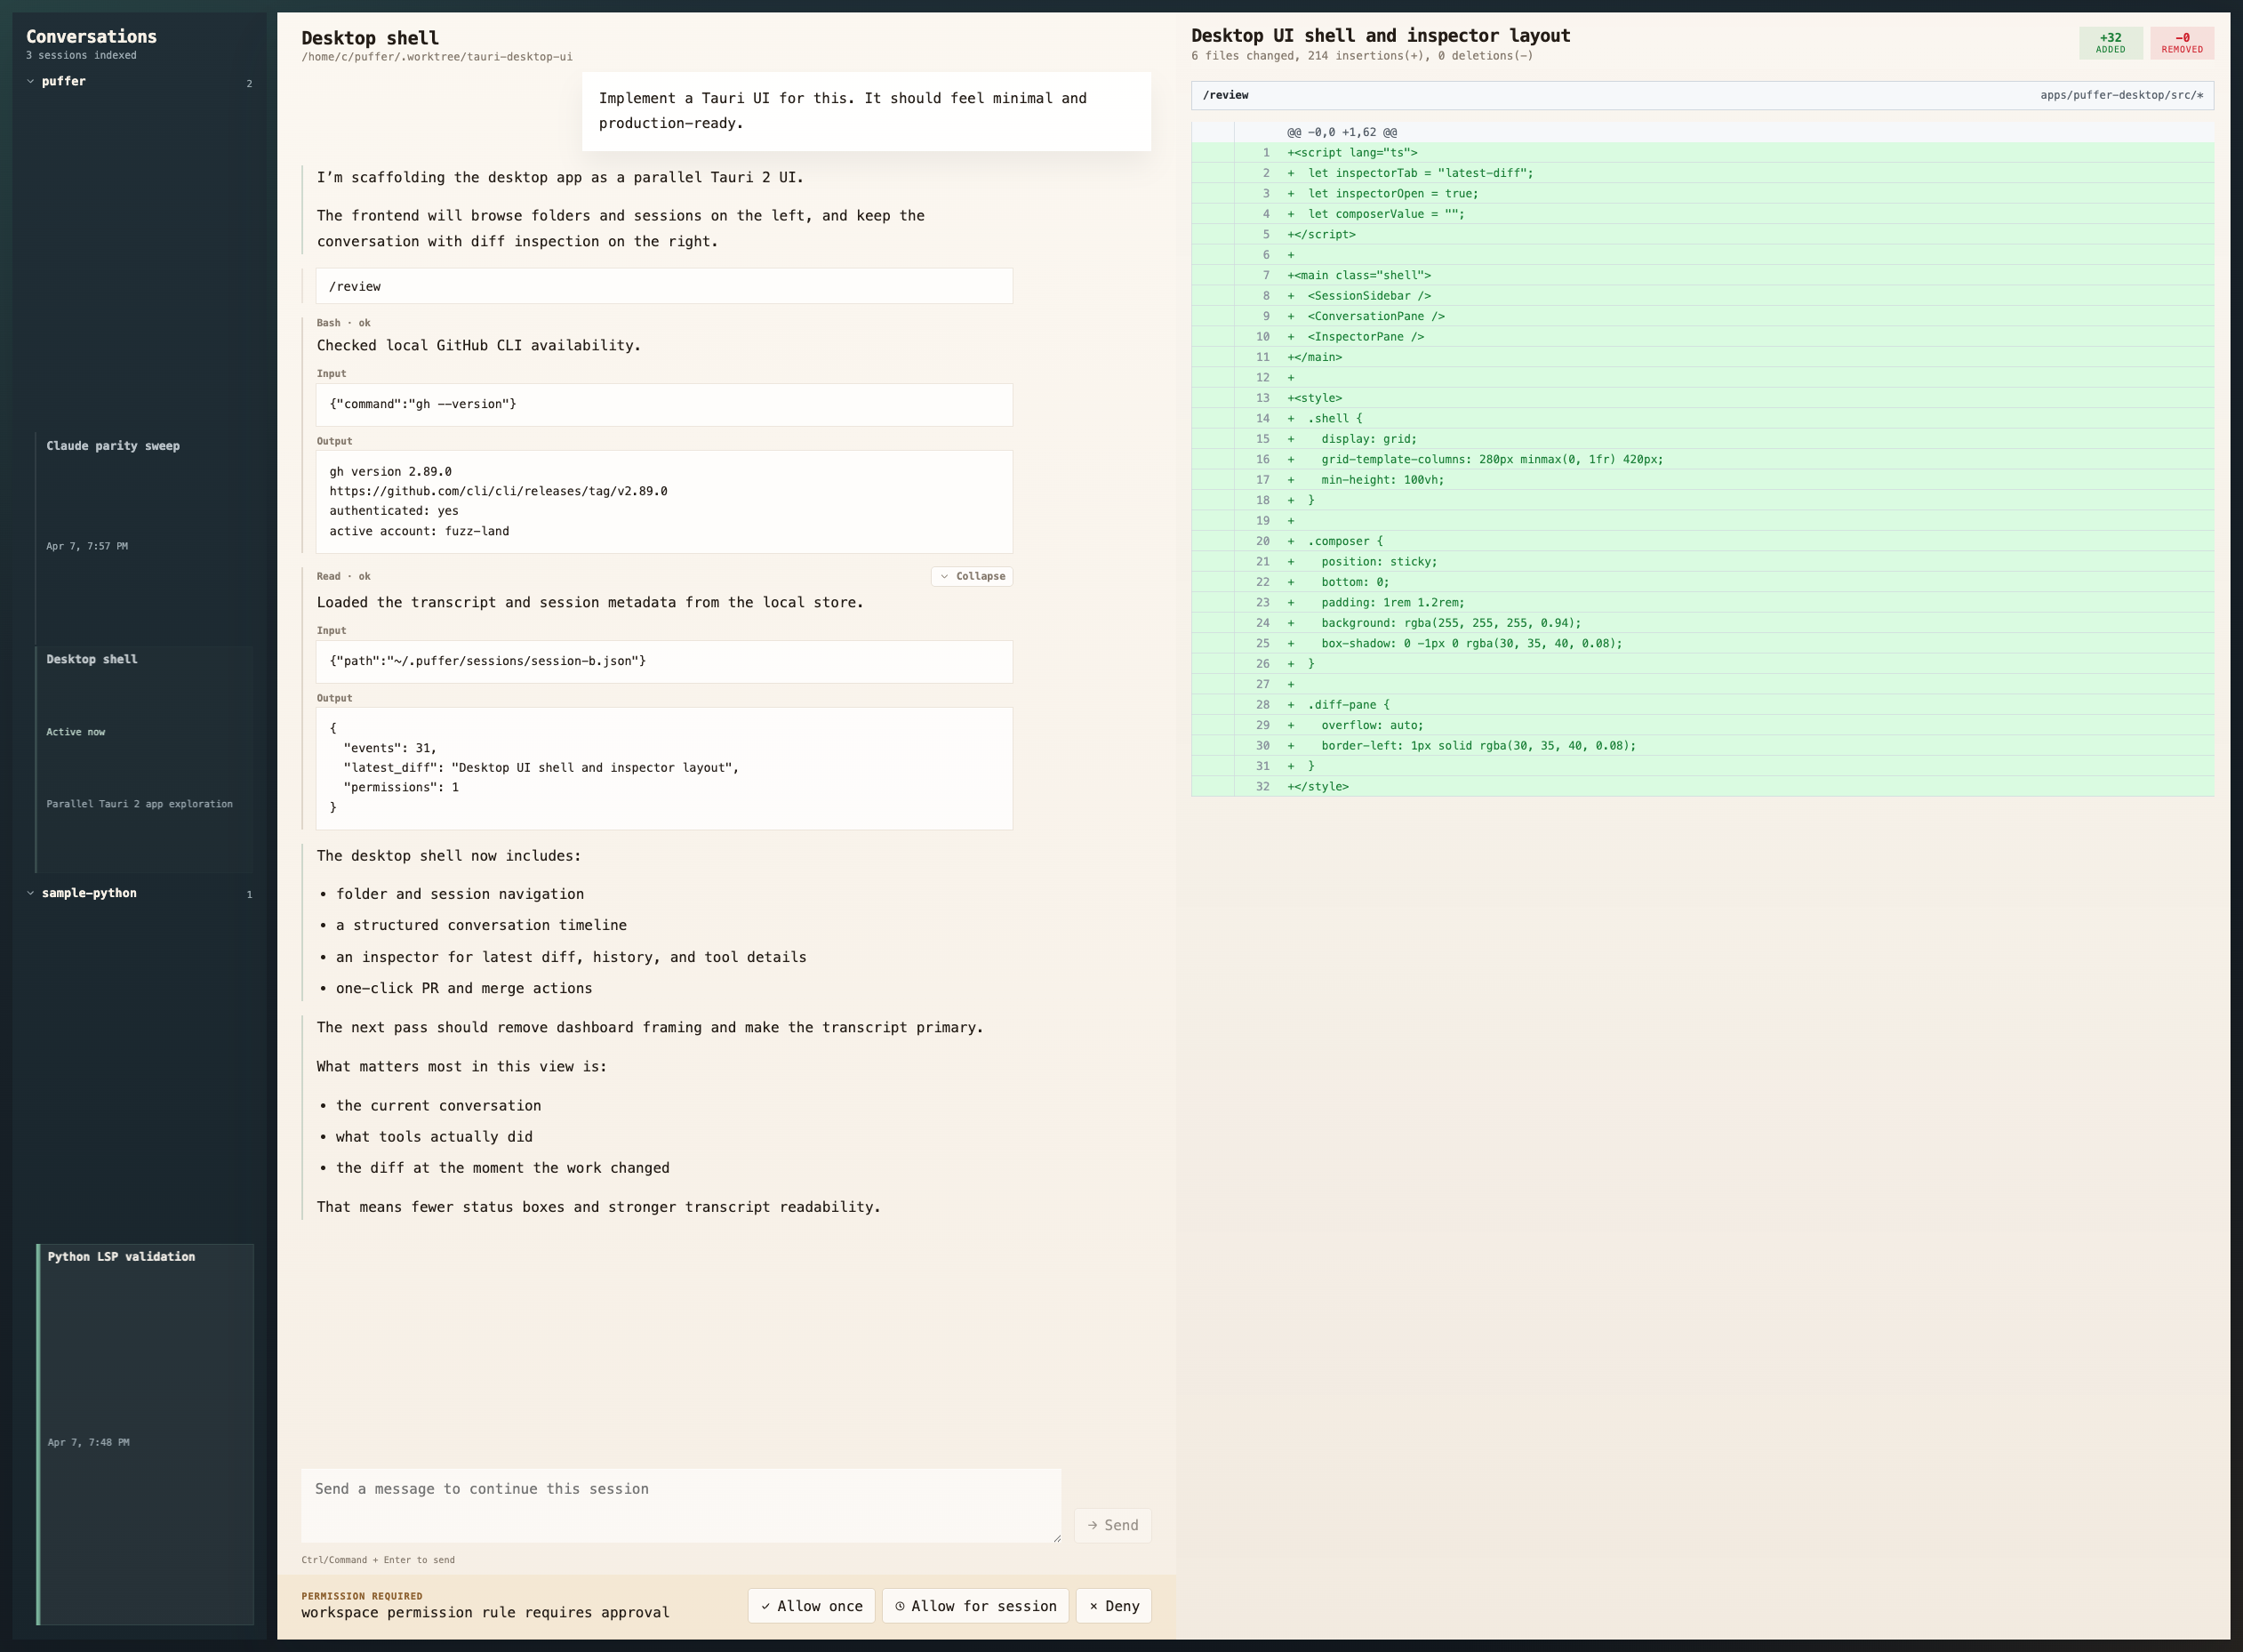
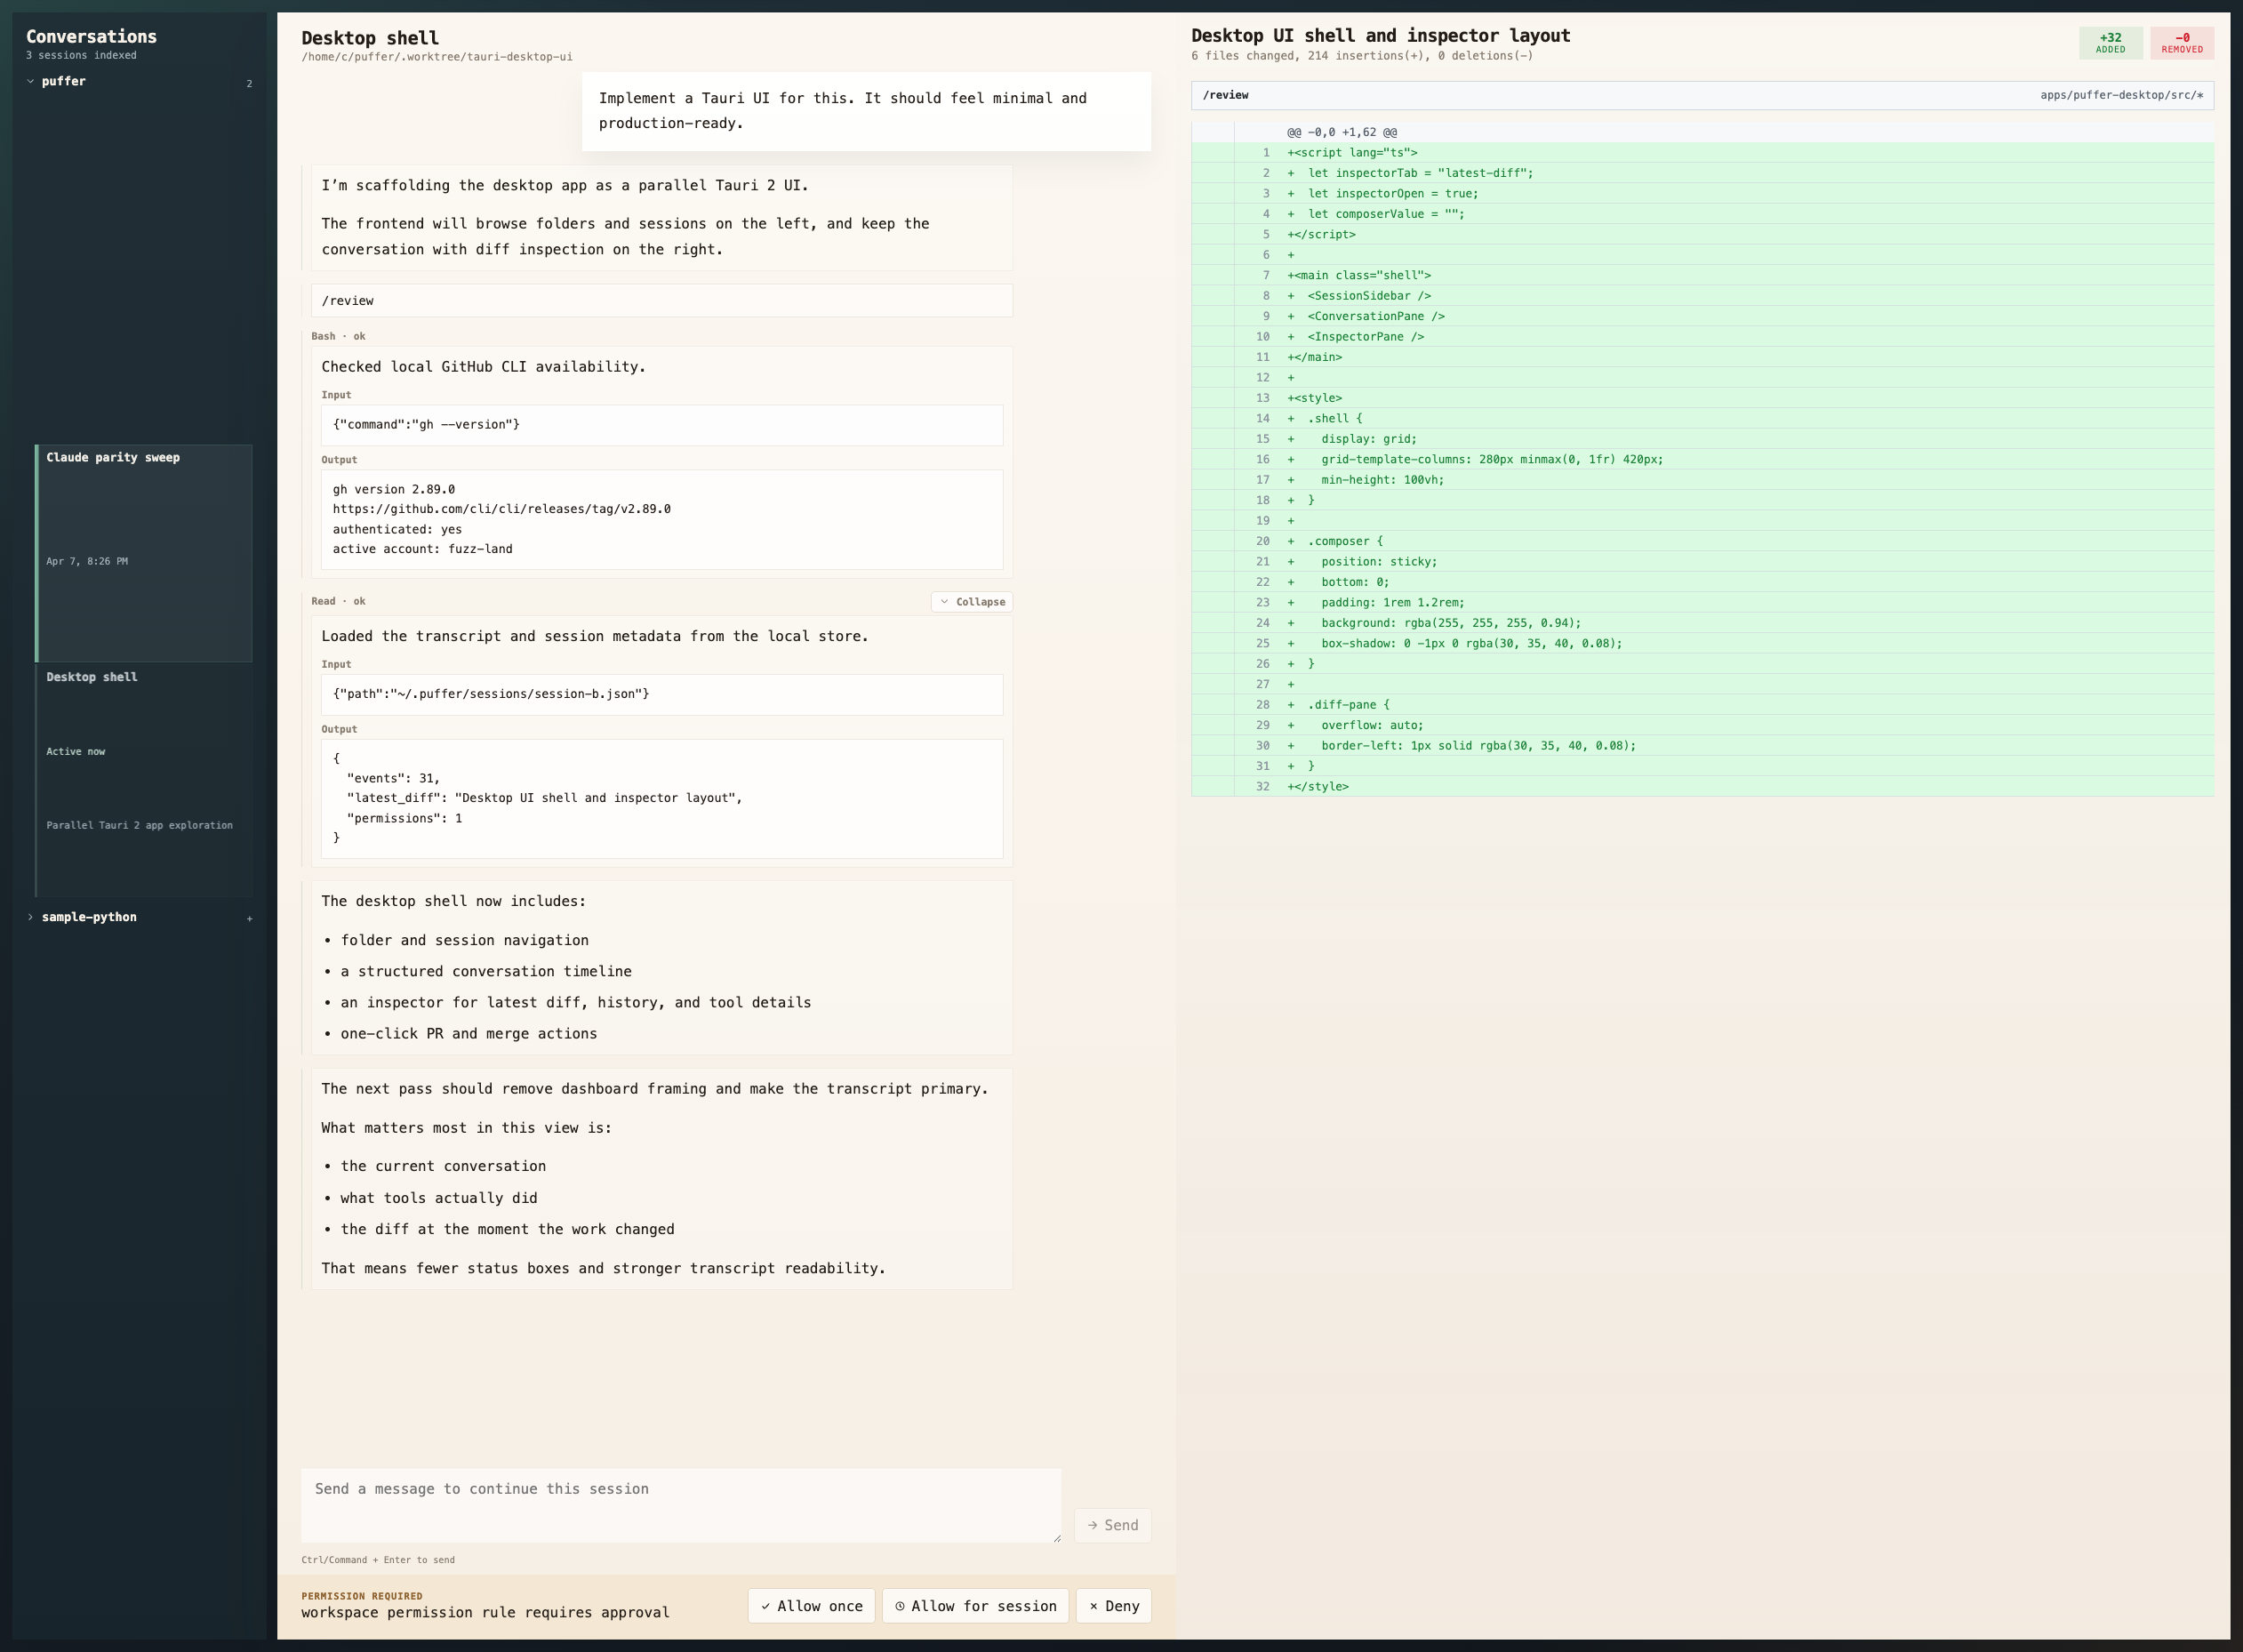
Refine desktop transcript record surfaces

diff --git a/apps/puffer-desktop/src/lib/components/ConversationPane.svelte b/apps/puffer-desktop/src/lib/components/ConversationPane.svelte
@@ -429,8 +429,8 @@
     display: grid;
     gap: 0.32rem;
     max-width: 50rem;
-    padding-left: 0.95rem;
-    border-left: 2px solid transparent;
+    padding-left: 0.65rem;
+    border-left: 1px solid transparent;
   }
 
   .entry.user {
@@ -442,20 +442,20 @@
   }
 
   .entry.assistant {
-    border-left-color: rgba(36, 105, 81, 0.2);
+    border-left-color: rgba(36, 105, 81, 0.14);
   }
 
   .entry.tool {
-    border-left-color: rgba(118, 97, 72, 0.2);
+    border-left-color: rgba(118, 97, 72, 0.14);
   }
 
   .entry.diff {
-    border-left-color: rgba(36, 105, 81, 0.12);
+    border-left-color: rgba(36, 105, 81, 0.1);
   }
 
   .entry.command,
   .entry.system {
-    border-left-color: rgba(118, 97, 72, 0.12);
+    border-left-color: rgba(118, 97, 72, 0.08);
   }
 
   .entry-meta {
@@ -484,21 +484,31 @@
     gap: 0.8rem;
     color: var(--text);
     font-size: 1rem;
+    padding: 0.55rem 0.7rem;
+    background: rgba(255, 255, 255, 0.28);
+    box-shadow:
+      0 1px 0 rgba(255, 255, 255, 0.4) inset,
+      0 0 0 1px rgba(118, 97, 72, 0.05);
   }
 
   .tool-log {
     display: grid;
     gap: 0.7rem;
+    padding: 0.6rem 0.7rem;
+    background: rgba(255, 255, 255, 0.34);
+    box-shadow:
+      0 1px 0 rgba(255, 255, 255, 0.42) inset,
+      0 0 0 1px rgba(118, 97, 72, 0.06);
   }
 
   .diff-log {
     display: grid;
     gap: 0.42rem;
-    padding: 0.72rem 0.85rem;
-    background: rgba(255, 255, 255, 0.46);
+    padding: 0.62rem 0.7rem;
+    background: rgba(255, 255, 255, 0.34);
     box-shadow:
-      0 1px 0 rgba(255, 255, 255, 0.45) inset,
-      0 0 0 1px rgba(36, 105, 81, 0.08);
+      0 1px 0 rgba(255, 255, 255, 0.42) inset,
+      0 0 0 1px rgba(36, 105, 81, 0.06);
   }
 
   .diff-title,
@@ -568,7 +578,7 @@
 
   .tool-section pre {
     margin: 0;
-    padding: 0.8rem 0.9rem;
+    padding: 0.72rem 0.8rem;
     background: rgba(255, 255, 255, 0.78);
     box-shadow:
       0 1px 0 rgba(255, 255, 255, 0.55) inset,
@@ -582,8 +592,8 @@
 
   .command-log {
     display: grid;
-    padding: 0.72rem 0.85rem;
-    background: rgba(255, 255, 255, 0.78);
+    padding: 0.62rem 0.72rem;
+    background: rgba(255, 255, 255, 0.52);
     box-shadow:
       0 1px 0 rgba(255, 255, 255, 0.55) inset,
       0 0 0 1px rgba(118, 97, 72, 0.1);